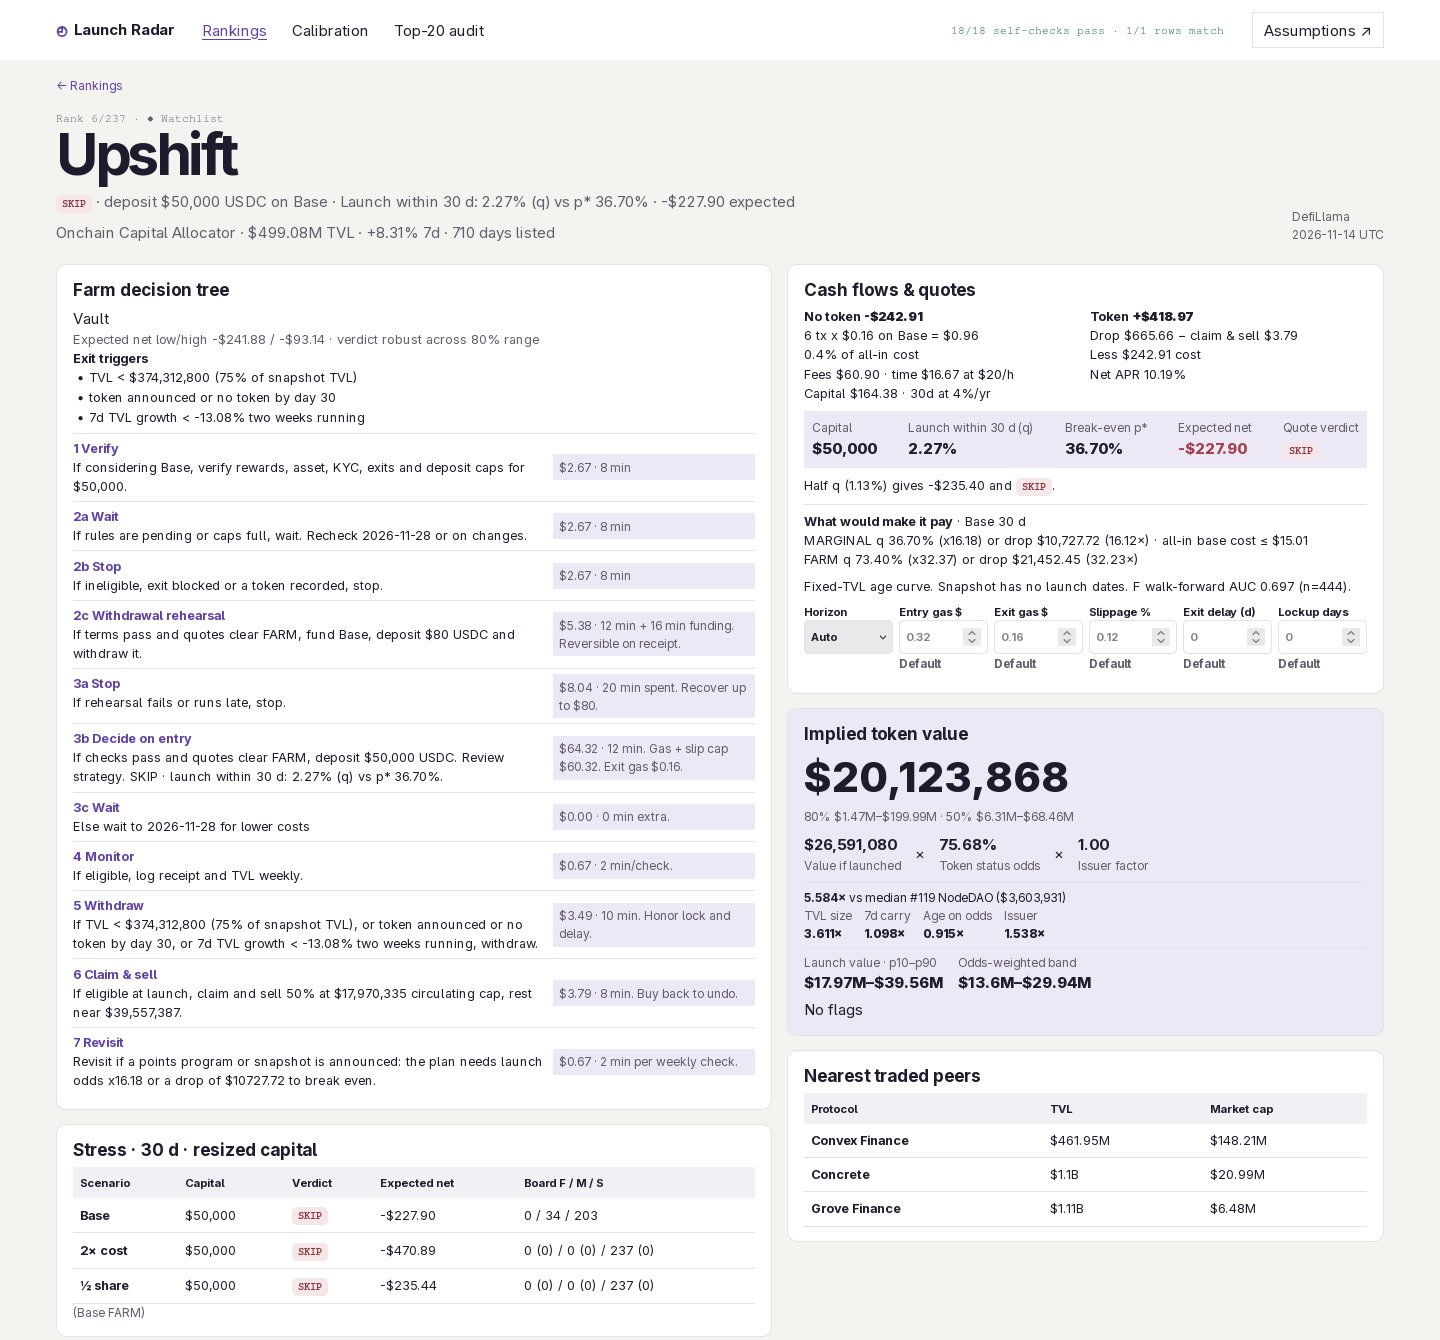
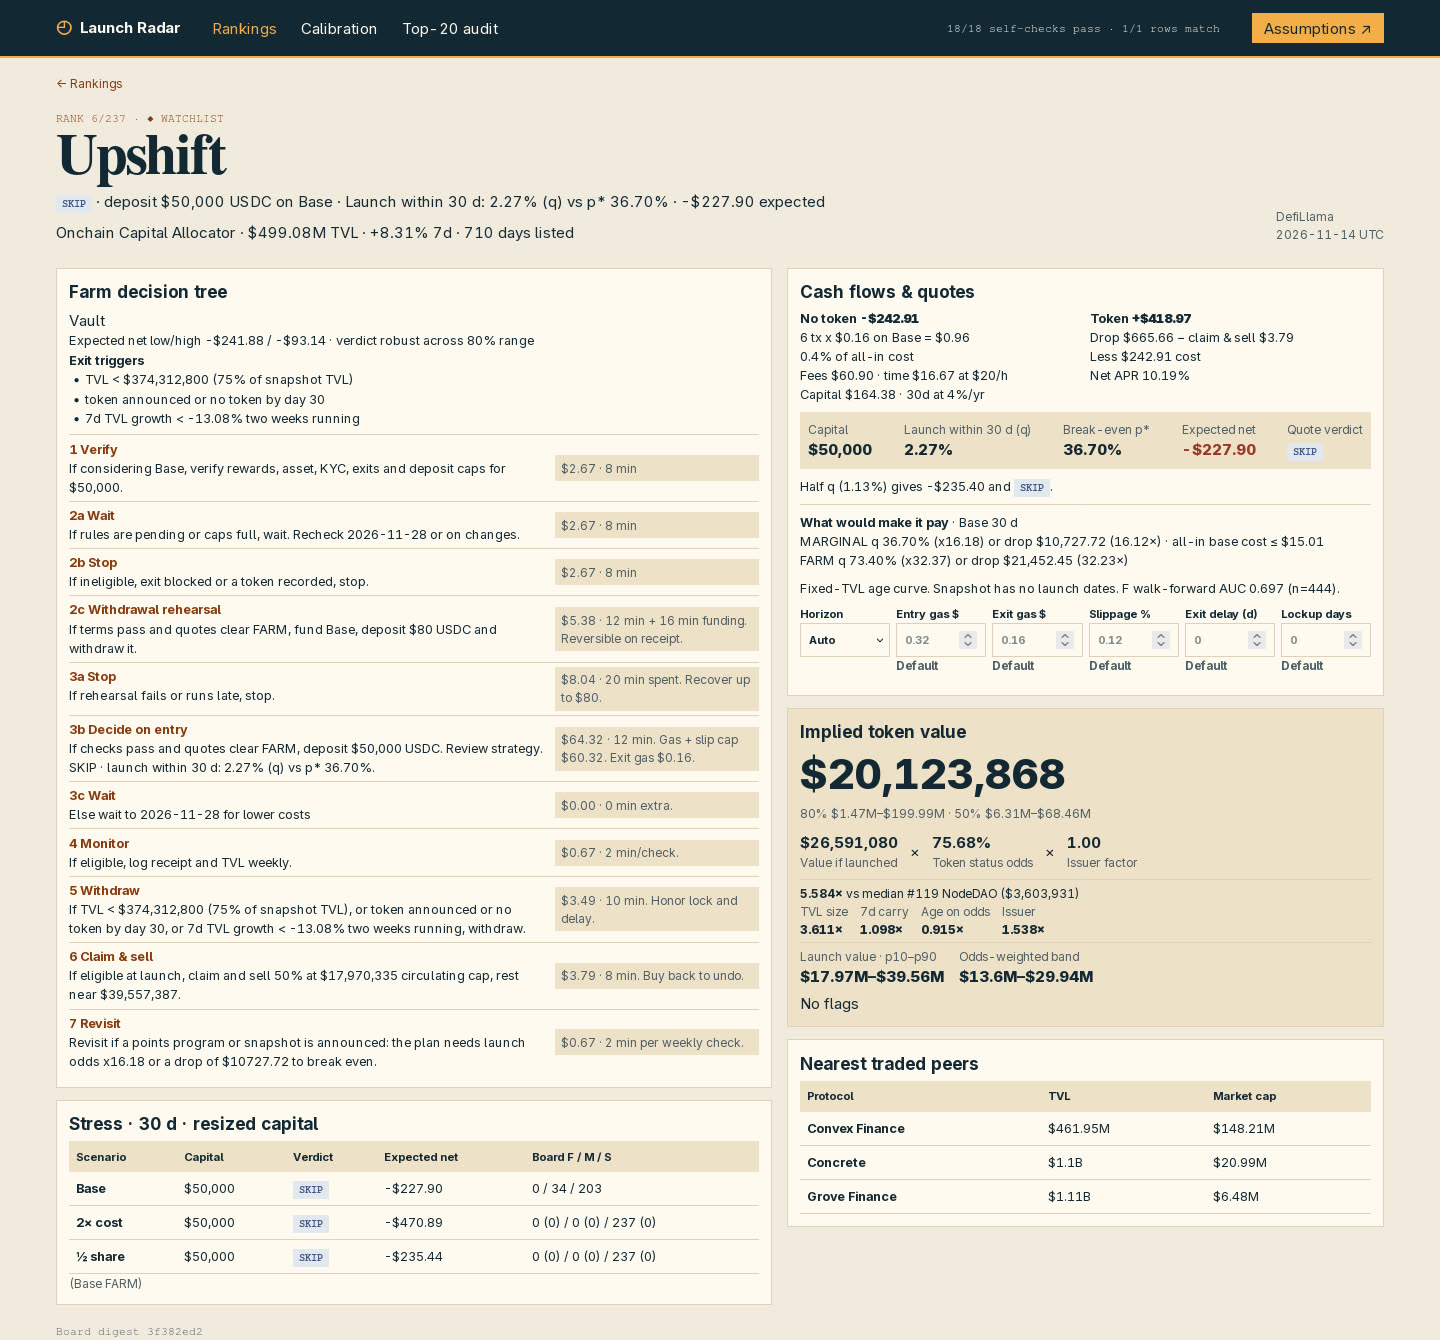
Distinctive visual identity: ink, paper and signal

diff --git a/dashboard/style.css b/dashboard/style.css
@@ -1,11 +1,8 @@
 :root{
-	--dim:#635a6d;
-	--line:1px solid #e4dfe8;
-	--ink:#6040a5;
-	--bg:#eee8f7;
-	font:15px/1.5 Adwaita Sans,FreeSans,sans-serif;
-	color:#211a2e;
-	background:#f5f3f1
+--ink:#142835;--dim:#4f5e66;--paper:#f2eade;--sheet:#fffaf0;--wash:#efe1c9;--rule:#ded0bc;--line:1px solid var(--rule);
+--signal:#f4ad49;--rust:#873a10;--gain:#12634d;--loss:#993829;
+font:15px/1.5 Adwaita Sans,FreeSans,sans-serif;
+font-variant-numeric:tabular-nums;color:var(--ink);background:var(--paper)
 }
 *{box-sizing:border-box}
 body,h1,h2,h3,p,dl,dd{margin:0}
@@ -13,115 +10,113 @@ a{color:inherit;text-decoration:none}
 a:hover{text-decoration:underline}
 button,select,input{font:inherit;color:inherit}
 button,select,summary{cursor:pointer}
-:focus-visible{outline:2px solid var(--ink);outline-offset:2px}
-h1{font-size:clamp(2.4rem,4vw,3.9rem);line-height:1;letter-spacing:-.06em}
+:focus-visible{outline:2px solid}
+h1{font:700 clamp(2.4rem,4vw,3.9rem)/1 FreeSerif,serif;letter-spacing:-.035em}
 h2{font-size:1.14rem;line-height:1.25}
 .frame{width:min(1328px,95%);margin:auto}
-body>header,.dialog-top,.btn,.chip,.panel{background:#fff}
+body>header{background:var(--ink);color:var(--sheet);border-bottom:2px solid var(--signal)}
+.dialog-top,.chip,.panel,dialog{background:var(--sheet)}
 .brand,.mast,.bar,.dialog-top,.portfolio,.equation{display:flex;align-items:center}
-.intro,.readings,.legend,.positions,.flows,.integrity,dl{display:flex}
-.mast{min-height:60px;gap:28px}
-.brand{gap:6px;font-weight:700}
+.intro,.readings,.legend,.positions,.flows,.integrity,dl,nav{display:flex}
+.mast{min-height:56px;gap:32px}
+.brand{gap:8px;font-weight:700}
 .brand span{font-size:1.35em}
-nav{display:flex;gap:25px;margin-right:auto}
-nav [aria-current=page]{text-decoration:underline}
-[aria-current=page],[aria-sort] a,.brand span,.watch,.back,.kicker,.steps h3{color:var(--ink)}
-.btn,.chip,.panel,.portfolio{border:var(--line)}
-.btn{padding:6px 11px}
+.brand span,[aria-current]{color:var(--signal)}
+nav{gap:24px;margin-right:auto}
+[aria-sort] a,.watch,.back,.kicker,.steps h3{color:var(--rust)}
+.panel,.portfolio{border:var(--line)}
+.btn,.chip{border:0}
+.btn{padding:4px 12px;background:var(--signal);color:var(--ink)}
 #checks,.rank,.kicker,footer{font:.76rem monospace}
-small,dt,.rank,.intro p,.curve,footer{color:var(--dim)}
+small,dt,.curve,footer{color:var(--dim)}
 .intro,.bar,.dialog-top,.metrics{justify-content:space-between}
 .integrity,.readings,.portfolio,.positions,.drivers dl{flex-wrap:wrap}
 .intro{align-items:end;margin:12px 0 24px}
 .intro p{margin-top:8px}
 .integrity{gap:2px;margin:-17px 0 8px}
-.chip{padding:2px;white-space:nowrap;font-size:.68rem}
+.chip{padding:2px 1px;white-space:nowrap;font-size:.68rem}
 #check-help,.back{margin-top:16px}
 .kpis,.groups,.board,.detail,.research,.rail,.detail>div,.filters,.steps li,.quotes{display:grid}
-.kpis{grid-template-columns:1.25fr 1.55fr 1fr .68fr;gap:12px;margin-bottom:10px}
-.panel,.portfolio{border-radius:10px;min-width:0}
-.kpi{padding:5px 12px;line-height:1.25}
+.kpis{grid:auto/1.25fr 1.55fr 1fr .68fr;gap:12px;margin-bottom:8px}
+.panel,.portfolio{min-width:0}
+.kpi{padding:4px 12px;line-height:1.25;border-top:2px solid var(--ink)}
+.kpi h2,.filters label,.kicker{text-transform:uppercase}
 .kpi strong{font-size:1.94rem}
-.groups{grid-template:auto/1fr 1fr}
+.groups{grid:auto/1fr 1fr}
 .readings,.band,.totals,.board,.detail,.research{gap:1rem}
 :not(strong)>small,.readings span,svg,.back{display:block}
 .misses strong{font-size:1.4rem}
 small,dt,.curve,.drivers,.rail,.portfolio p,.hint,.back,.kpi{font-size:.8rem}
-.valuation,.portfolio,.metrics,.steps small{background:var(--bg)}
+.valuation,.portfolio,.metrics,.steps small,thead,.rank{background:var(--wash)}
 .board,.detail,.research{align-items:start}
-.board{grid-template-columns:1fr 310px}
-.rail,.detail>div{gap:14px}
-.bar{padding:14px 16px 9px}
-.filters{grid-template-columns:1.4fr repeat(6,1fr);gap:8px;padding:0 16px 9px}
+.board{grid:auto/1fr 310px}
+.rail,.detail>div,.legend,.equation{gap:12px}
+.bar{padding:12px 16px 8px}
+.filters{grid:auto/1.4fr repeat(6,1fr);padding:0 16px 8px}
 :is(.filters,.quotes){
 	label{font-size:.75rem;font-weight:700}
-	:is(input,select){width:100%;height:34px;padding:4px 6px;border:var(--line);border-radius:5px}
+	input,select{width:100%;height:34px;padding:4px 8px;border:var(--line);background:var(--sheet)}
 }
 .scroll{overflow:auto}
 #results .scroll{max-height:511px;.portfolio+div &{max-height:318px}}
 #results thead{position:sticky;top:0;z-index:1}
 table{width:100%;border-collapse:collapse}
 th{text-align:left}
-thead{background:#f3eff6;font-size:.75rem}
+thead{font-size:.75rem}
 .ranks{min-width:880px;font-size:.88rem;line-height:1.15}
-.ranks :is(td,th){padding:2px 7px}
+.ranks :is(td,th){padding:2px 6px}
 .ranks :is(td,small){white-space:nowrap}
-.hint,.compare{margin:0 16px 9px}
+.rank,.ranks th:first-child{text-align:center}
+.hint,.compare{margin:0 16px 8px}
 tbody tr{border-bottom:var(--line)}
 .protocol,dd,.amount{font-weight:750}
-.pos,[data-pass=true]{color:#17644f}
-.neg,[data-pass=false]{color:#a0414e}
-.badge{display:inline-block;padding:3px 6px;border-radius:5px;font:700 .7rem/1.15 monospace}
-.farm{background:#e1f3eb;color:#145a46}
-.marginal{background:#fbefd7;color:#754800}
-.skip{background:#f6e6e8;color:#893842}
-.inset,.valuation,.empty{padding:14px 16px}
+.pos,.chip[data-pass=true]{color:var(--gain)}
+.neg,.chip[data-pass=false]{color:var(--loss)}
+.badge{padding:3px 6px;font:700 .7rem/1.15 monospace;color:var(--mark);background:var(--tint)}
+.farm{--mark:var(--gain);--tint:#d9ebe1}
+.marginal{--mark:#854608;--tint:#ffe3b1}
+.skip{--mark:#435783;--tint:#e3e8f0}
+.inset,.valuation,.empty,.portfolio{padding:12px}
 svg{width:100%;height:146px}
 svg text{fill:var(--dim);font-size:11px}
-svg path{stroke:#e8e0ed}
-.farm-dot{--dot:#24795e}
-.marginal-dot{--dot:#ad6b1a}
-.skip-dot{--dot:#bf4f62}
-svg circle{fill:var(--dot)}
-.legend{gap:12px;font:.7rem monospace}
-.legend span::before{content:"● ";color:var(--dot)}
+svg path{stroke:var(--rule)}
+svg circle{fill:var(--mark)}
+.legend{font:.7rem monospace}
+.legend span::before{content:"● ";color:var(--mark)}
 .plans div,.pay,.steps li,.drivers,.band{border-top:var(--line)}
 .plans b{float:right}
-.pay{margin:8px 0;padding-top:7px}
-.portfolio{gap:12px 26px;padding:12px 16px;margin-bottom:16px}
+.pay{padding-top:8px}
+.portfolio{gap:12px 24px;margin-bottom:16px}
 .positions,.positions>div,.flows>div{flex:1}
-.back+.intro{margin:10px 0 20px}
-.detail{grid-template-columns:6fr 5fr}
+.detail{grid:auto/6fr 5fr}
 .detail>div{min-width:0}
-.metrics,.flows,.steps li{gap:8px}
-.metrics{padding:8px;margin-block:8px}
+.metrics,.flows,.steps li,.filters{gap:8px}
+.metrics{padding:8px}
 .steps{list-style:none;margin:6px 0 0;padding:0}
-.steps li{grid-template-columns:7fr 3fr;padding:5px 0}
+.steps li{grid:auto/7fr 3fr}
 .steps small{align-self:center;padding:4px 6px}
 .detail h3,.steps p,.quote p,.facts,.kpi h2,.exits,.range-net{font-size:.85rem}
 .exits{margin:0;padding-left:1.25em}
-.half-q,.quotes{margin-block:7px}
-.quotes{grid-template-columns:repeat(auto-fit,minmax(80px,1fr));gap:6px}
+.half-q,.quotes,.metrics,.pay,.equation{margin-block:8px}
+.quotes{grid:auto/repeat(auto-fit,minmax(80px,1fr));gap:6px}
 .amount{font-size:2.8rem}
-.range-net{color:var(--dim)}
-.equation{gap:14px;margin:8px 0}
-.drivers,.band{padding:5px 0}
+.drivers,.band,.steps li{padding:4px 0}
 .drivers dl{gap:1em}
 .inset h2{margin-bottom:.4em}
 .facts :is(td,th){padding:7px}
-.research{grid-template-columns:7fr 5fr}
+.research{grid:auto/7fr 5fr}
 footer{padding:20px 0}
 dialog{margin:0 0 0 auto;height:100%;max-height:none;width:min(640px,100%);border:0}
 .dialog-top,.drawer{padding:16px}
 .dialog-top{position:sticky;top:0}
-@media(max-width:1130px){.board{grid-template-columns:1fr}.rail{grid-template-columns:1fr 1fr}}
+@media(max-width:1130px){.board{grid:auto/1fr}.rail{grid:auto/1fr 1fr}}
 @media(max-width:780px){
 	.mast{flex-wrap:wrap;gap:5px 12px}
 	nav{order:3;width:100%}
 	.intro{align-items:start;flex-direction:column}
-	.kpis,.filters{grid-template-columns:1fr 1fr}
+	.kpis,.filters{grid:auto/1fr 1fr}
 	.filters label:first-child{grid-column:span 2}
-	.detail,.research{grid-template-columns:1fr}
+	.detail,.research{grid:auto/1fr}
 	.metrics{flex-wrap:wrap}
 }
-@media(max-width:500px){.kpis,.rail,.steps li{grid-template-columns:1fr}}
+@media(max-width:500px){.kpis,.rail,.steps li{grid:auto/1fr}}

diff --git a/dashboard/app.js b/dashboard/app.js
@@ -118,7 +118,7 @@ ${html(filters,spec=>filter(spec,st))}</div>
 </section><aside class=rail>
 ${plans(st)}
 ${inset("Expected yield by age",`<div id=yield></div>
-<div class=legend>${html(grades,v=>`<span class=${v.toLowerCase()}-dot>${v}</span>`)}</div>`)}
+<div class=legend>${html(grades,v=>`<span class=${v.toLowerCase()}>${v}</span>`)}</div>`)}
 </aside></div>
 <details class="panel inset" id=check-help><summary>Integrity</summary><ul>
 <li>Export, hash, groups, watchlist, order, costs, miss, AUC
@@ -217,7 +217,7 @@ ${html(["start","middle","middle","end"],(anchor,i)=>{
 	return`<path d="M36,${y}H275M${x},10V130"/><text x=29 y=${y+4} text-anchor=end>${+(low+span*i/3).toFixed(1)}%</text>
 <text x=${x} y=148 text-anchor=${anchor}>${integer(days*i/3)}</text>`
 })}
-${html(points,({plan,ageDays,name},i)=>`<circle class=${plan.verdict.toLowerCase()}-dot cx=${36+239*ageDays/days} cy=${130-120*(rates[i]-low)/span} r=3.1>
+${html(points,({plan,ageDays,name},i)=>`<circle class=${plan.verdict.toLowerCase()} cx=${36+239*ageDays/days} cy=${130-120*(rates[i]-low)/span} r=3.1>
 <title>${esc(name)} · ${ageDays} days · ${pct(plan.expectedYield)}</title></circle>`)}
 <text x=156 y=167 text-anchor=middle>Days without a recorded token</text>
 </svg><p>${points.length} plotted${rs.length>points.length?` · ${rs.length-points.length} undated`:""}`
